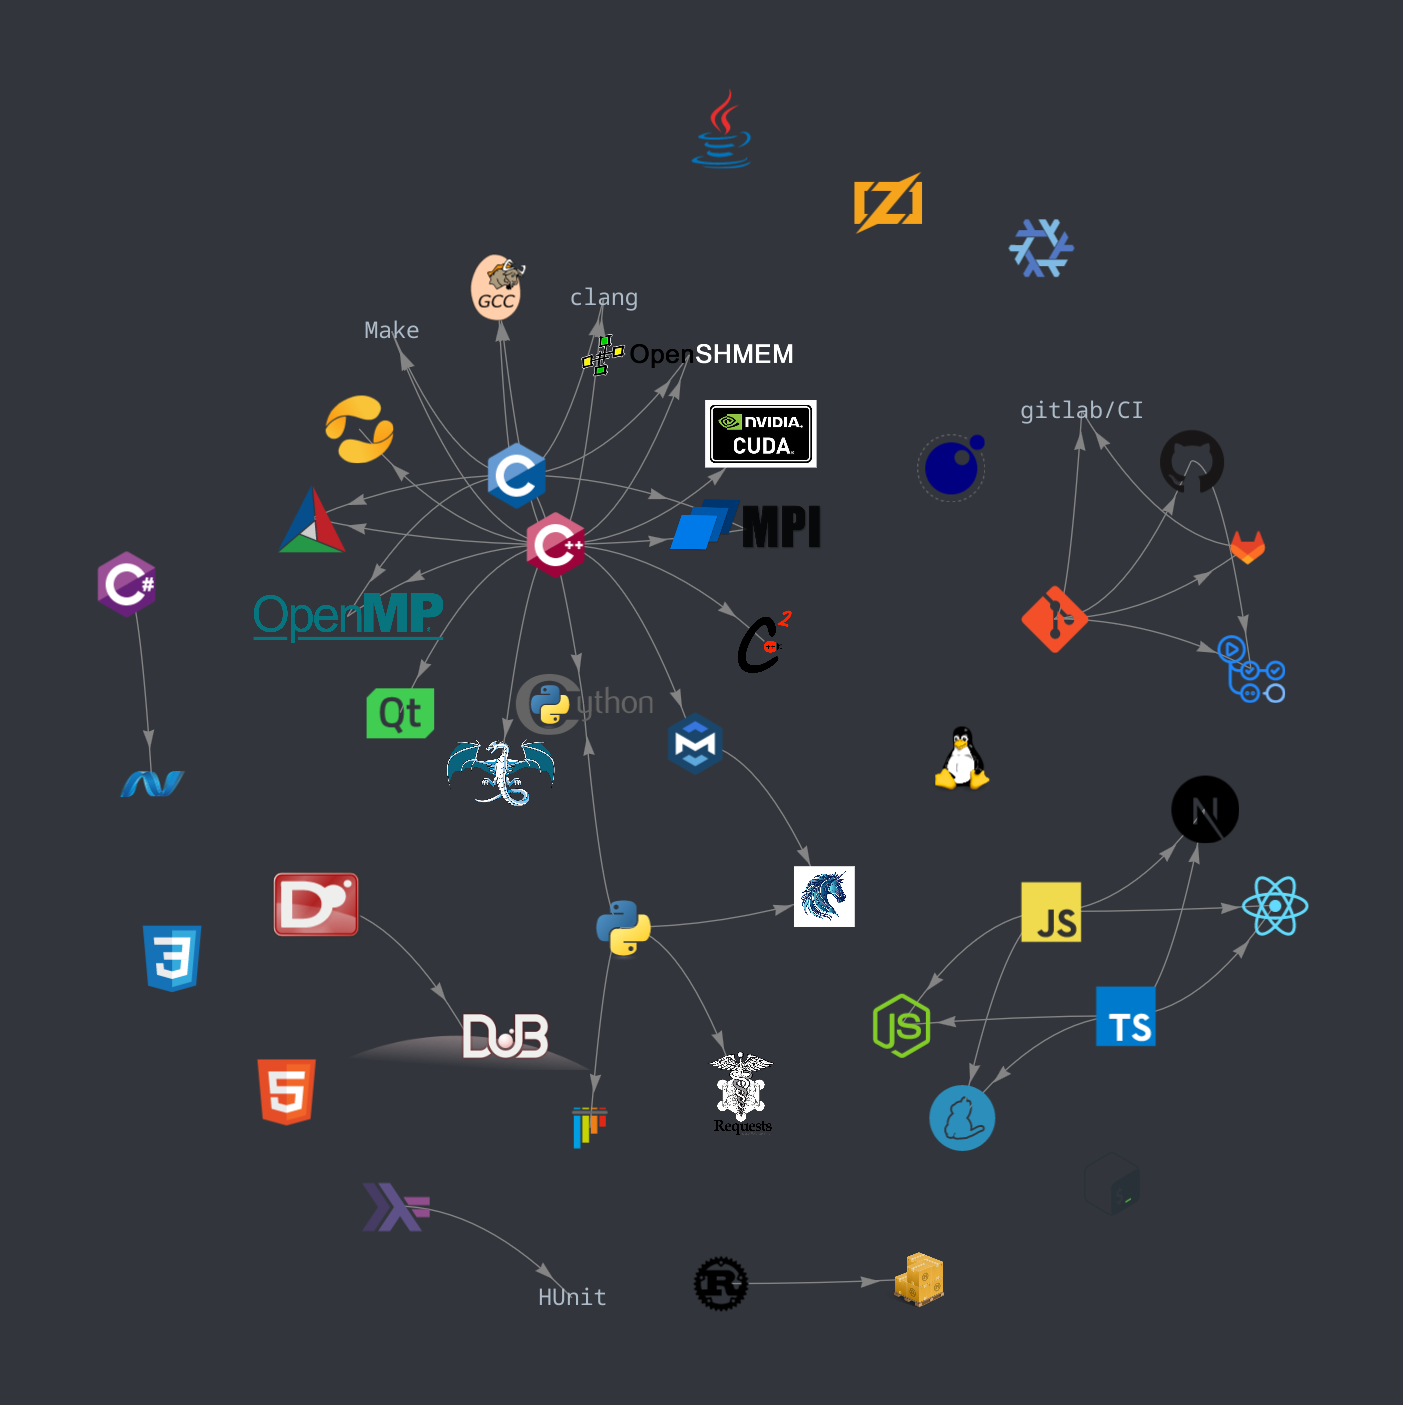
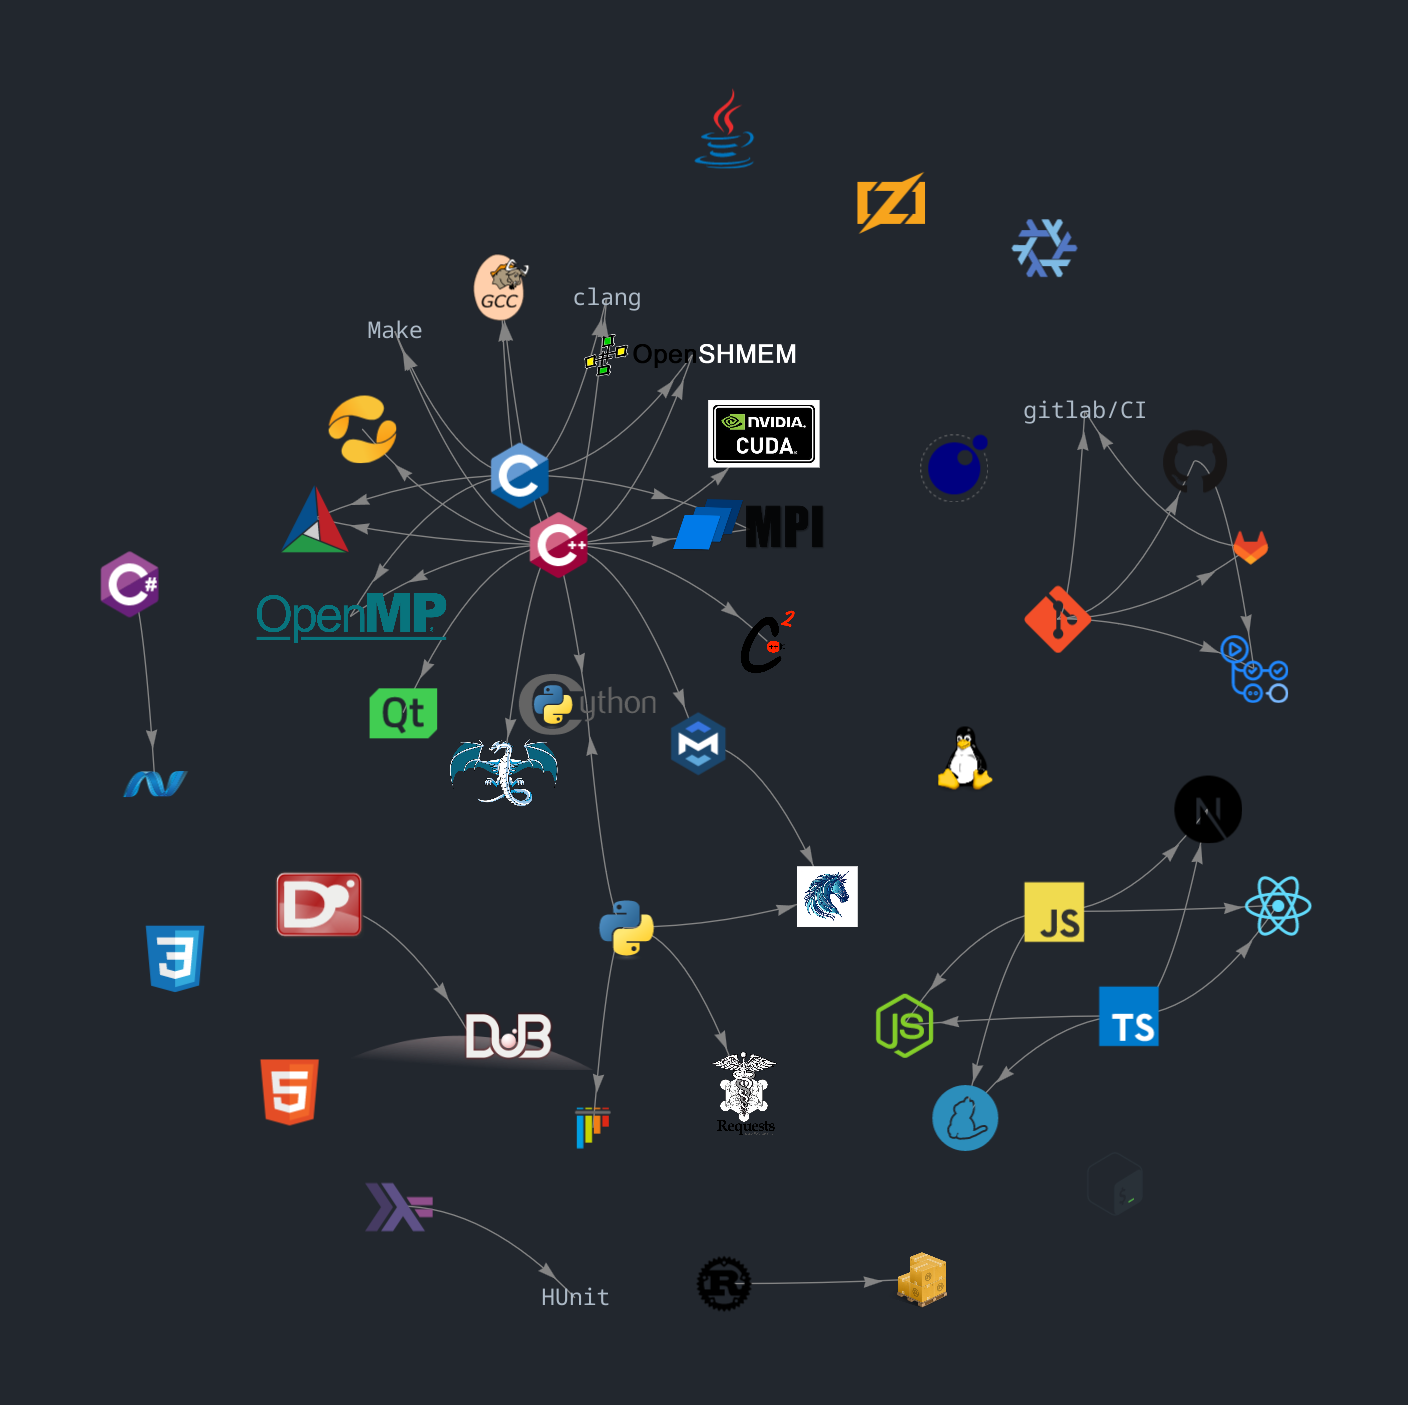
adjusted colors again

diff --git a/make_graph.py b/make_graph.py
@@ -35,7 +35,7 @@ with open("list.json") as f:
 with open("opts.json") as f:
     opts = f.read()
 
-net = Network(height="800px", width="800px", bgcolor='#32363c')
+net = Network(height="800px", width="800px", bgcolor='#22272e')
 net.set_options(opts)
 
 base_size = 25
